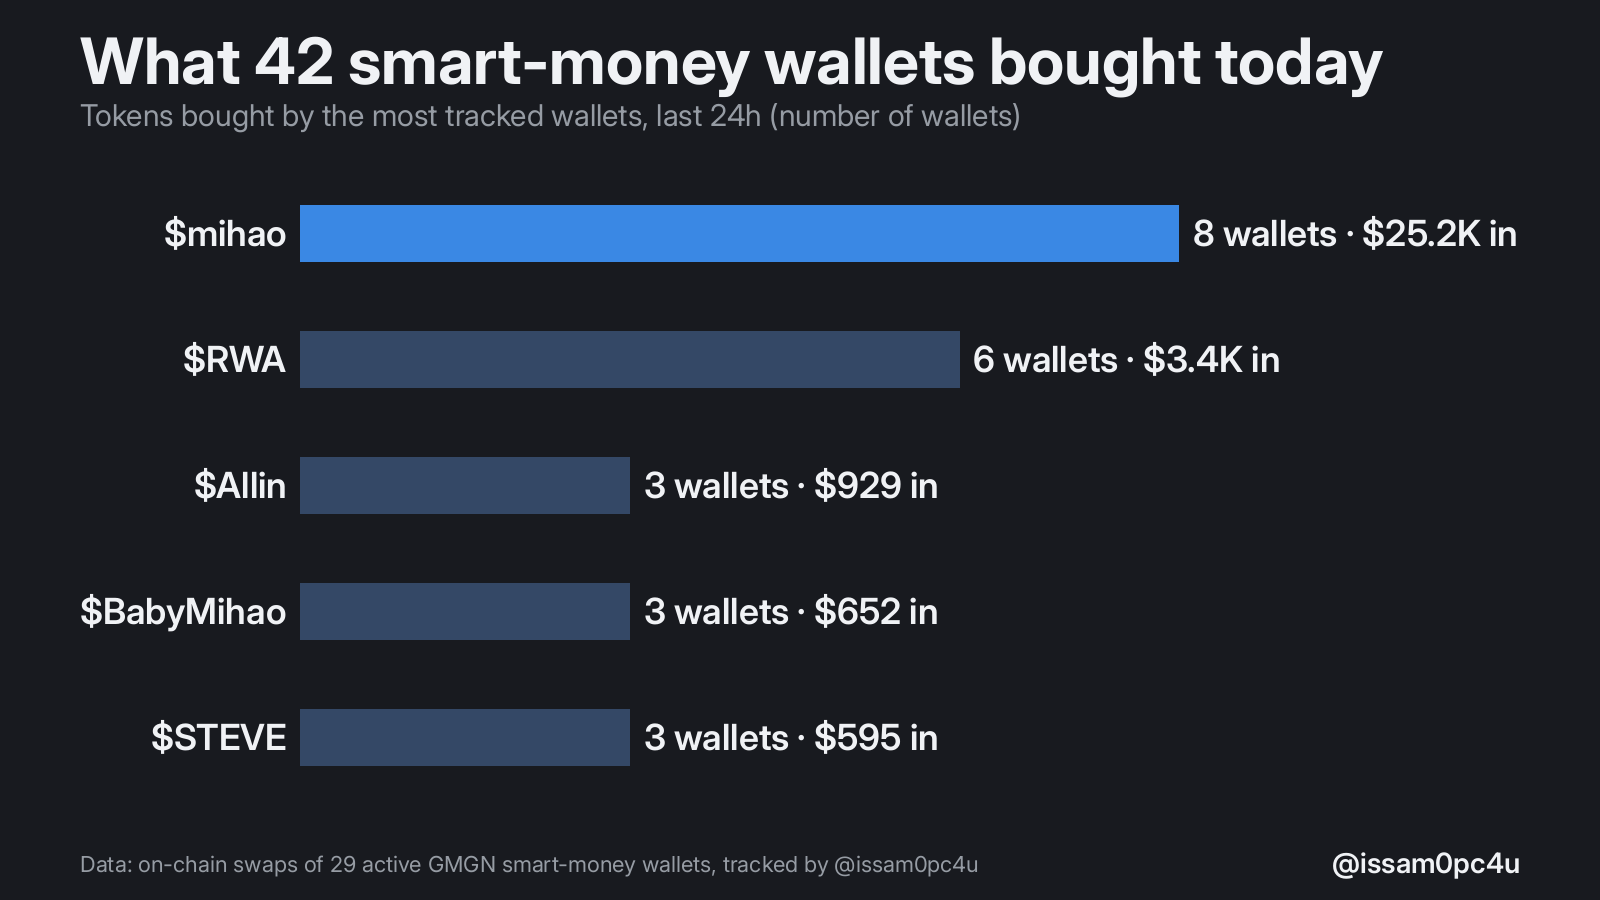
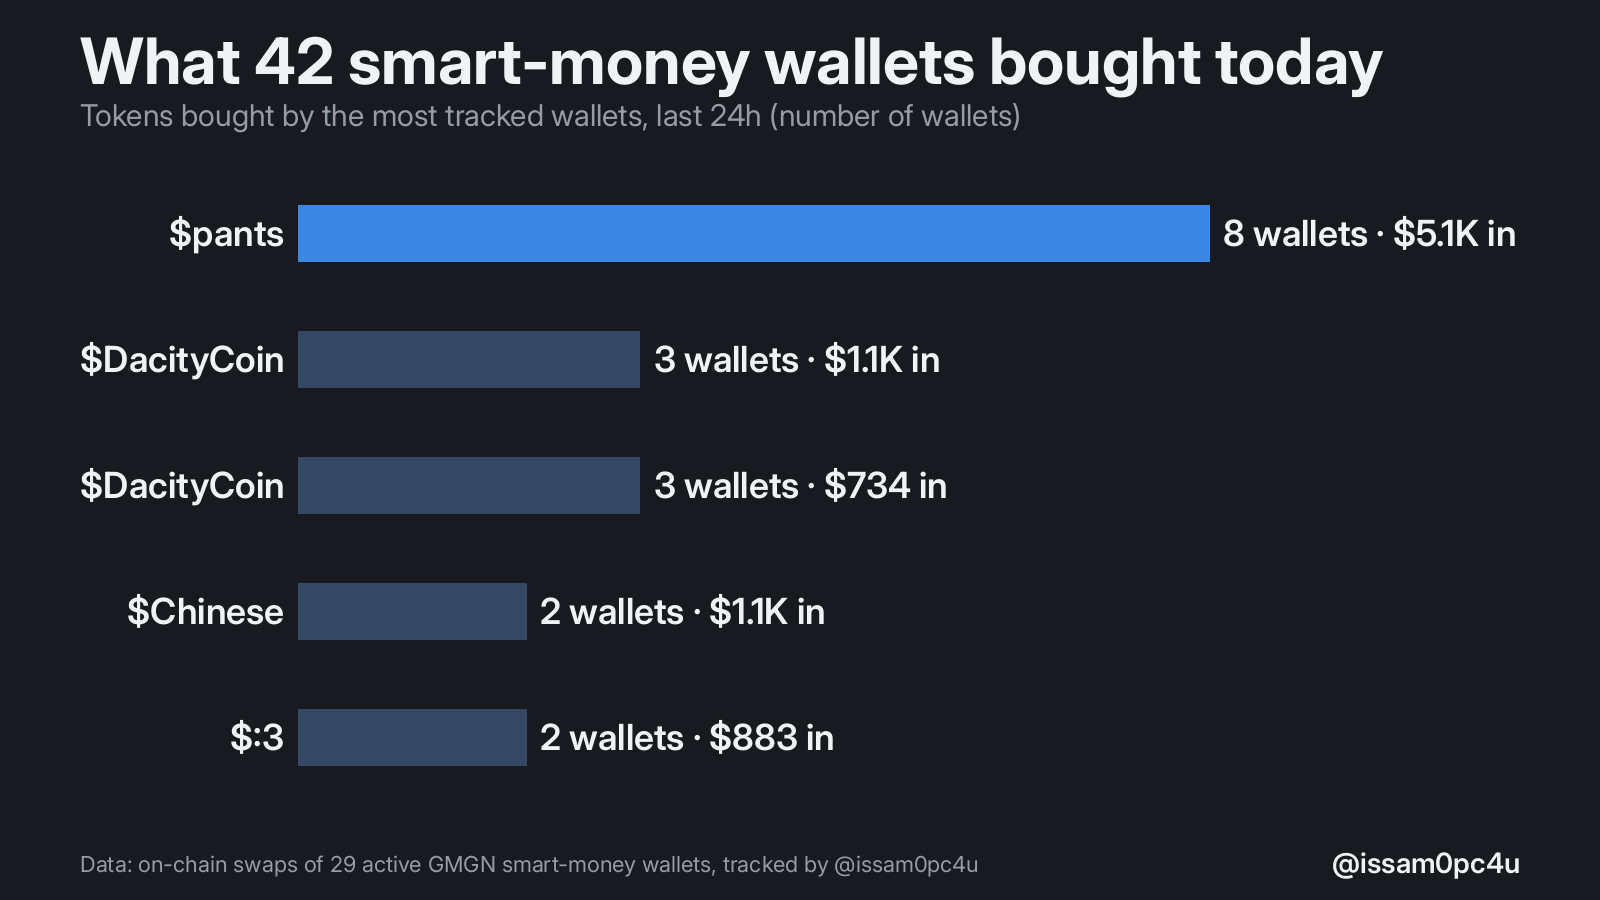
smartmoney report: 2026-11-12 17:15

diff --git a/queue/2026-11-12-1825-smartmoney-report.md b/queue/2026-11-12-1825-smartmoney-report.md
@@ -1,0 +1,35 @@
+---
+post_at: 2026-11-12 18:25
+status: ready
+pillar: data
+image: charts/2026-11-12-smartmoney.png
+queued_at: 2026-11-12 17:15
+sources:
+  - https://github.com/issambkkal/x-meme-desk/tree/main/smartmoney
+  - https://gmgn.ai/trade?chain=sol&tab=smart_degen
+---
+I track 42 of the most profitable meme coin wallets on Solana. Here's what they did in the last 24h 🧵
+
+1383 buys, 1294 sells, 44 different tokens.
+
+Smart money in: $18.2K. Out: $23.2K.
+===
+Most bought: $pants
+
+8 tracked wallets bought it, $5.1K in total. Market cap $18820.2M, -98% in 24h.
+
+8 of them have already sold some. Watch that number.
+===
+Most dumped: $pants
+
+$4.5K sold by 8 tracked wallets. -98% in 24h.
+
+When the smart money leaves, the late buyers become the exit.
+===
+The lesson from 24h of their trades: they buy small, take profit fast, and dump losers within hours.
+
+Most of their 'wins' are trades, not holds.
+
+Research, not advice.
+===
+I post every smart-money signal and every trap the moment the bot sees it, free, in my Telegram group imbi MOON. Link is in my pinned post.
